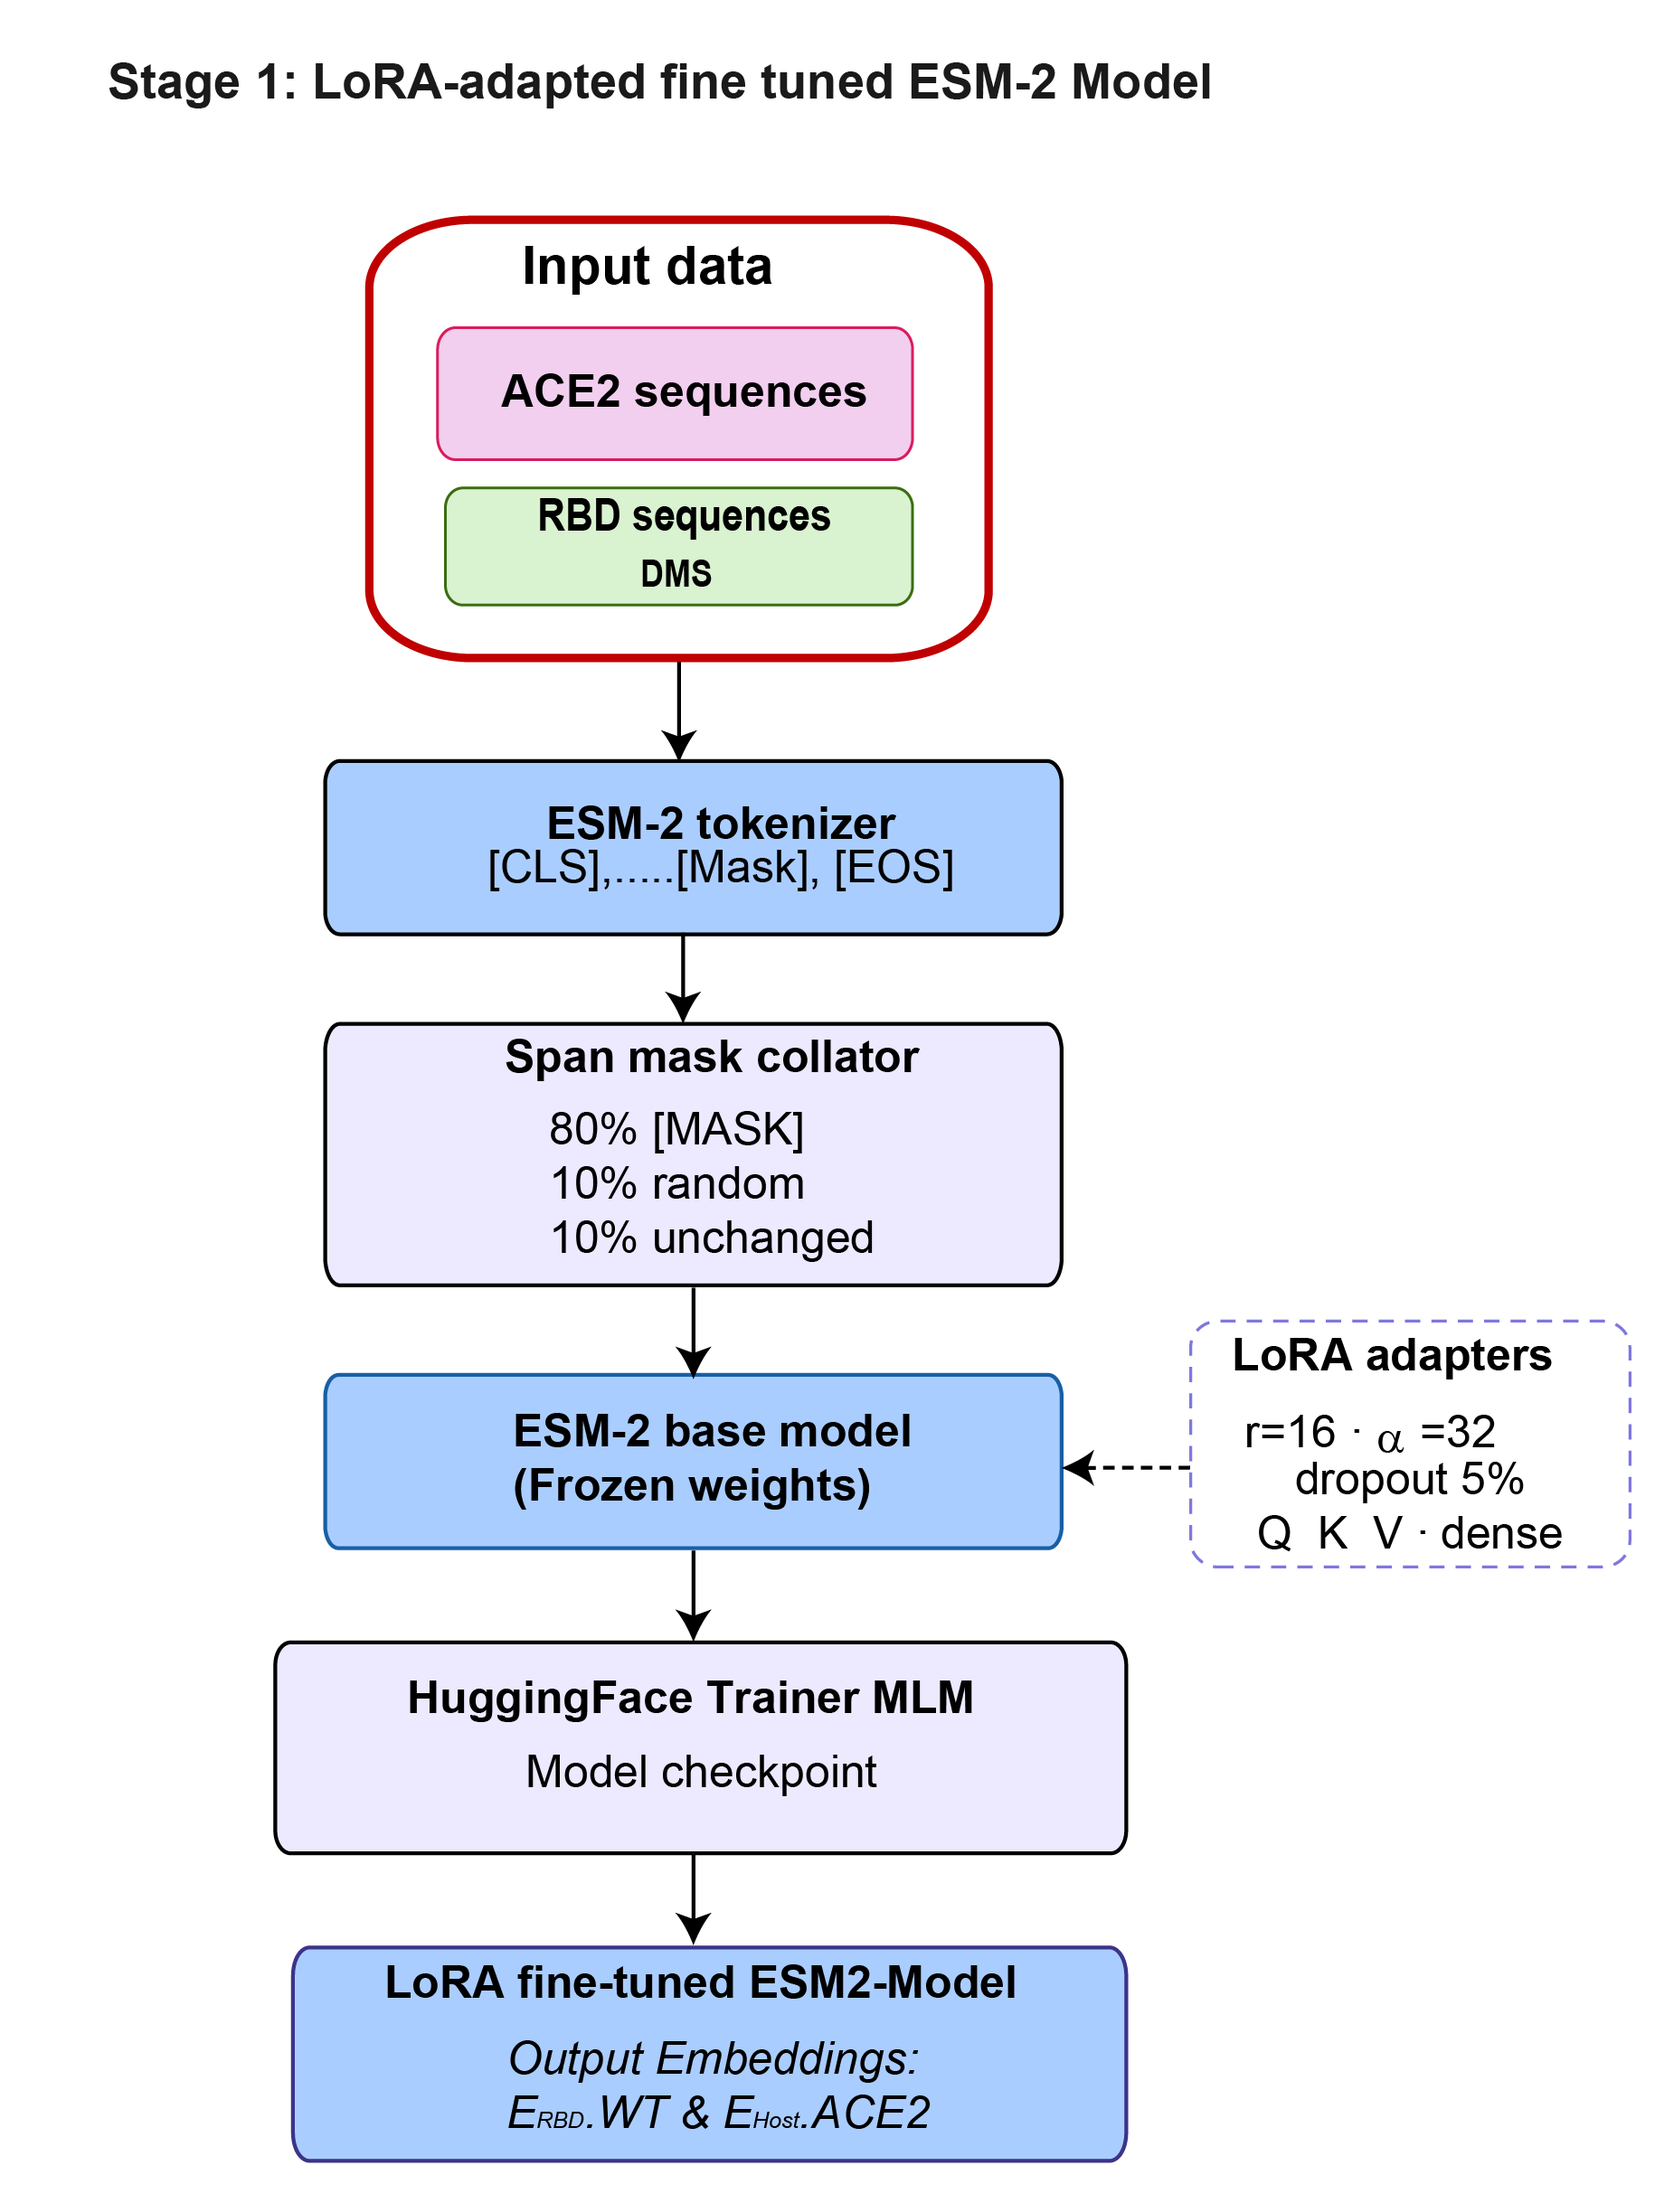
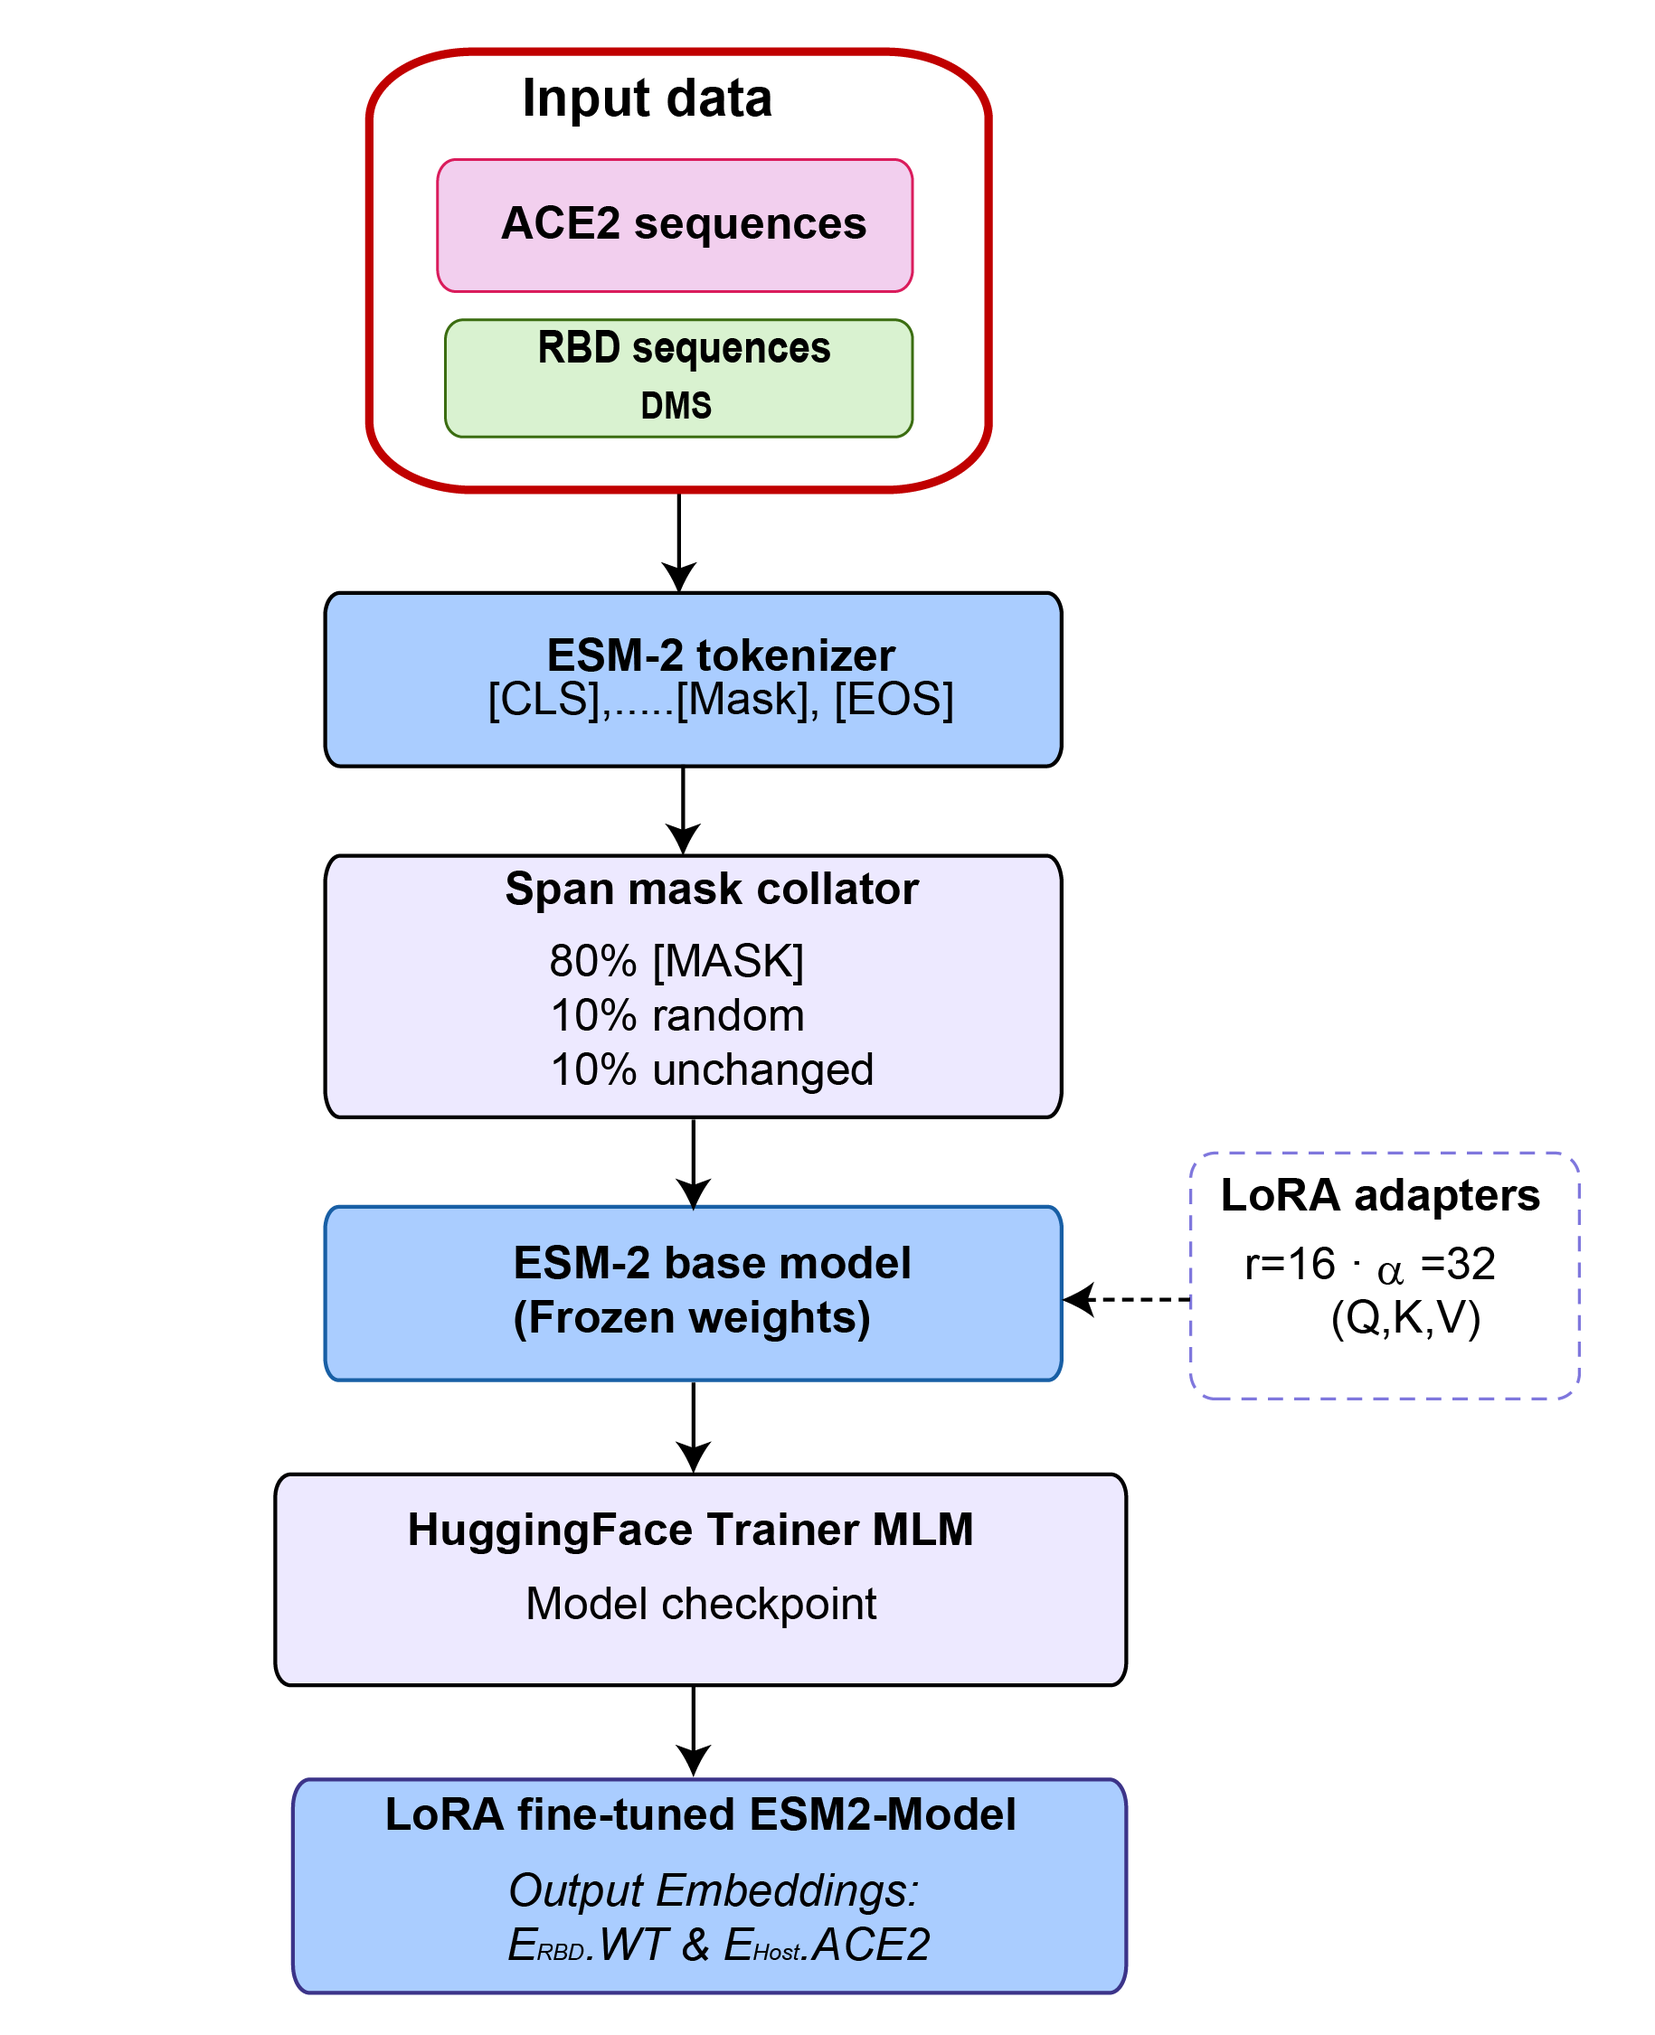
updated readme and stage1 image final

diff --git a/README.md b/README.md
@@ -21,8 +21,11 @@ The model combines:
 
 ## Model Architecture pipeline
 
-![Stage 1 Architecture](./images/stage1_architecture.png)
-![Stage2 Architecture](./images/model_architecture.png)
+**Stage 1 — Fine Tuning ESM-2 Model and LoRA masked-LM adaptation model**
+<img src="./images/stage1_architecture.png" alt="Stage 1 Architecture" width="350"/>
+
+**Stage 2 — Multi-task cross attention model architecture**
+<img src="./images/model_architecture.png" alt="Model Architecture" width="450"/>
 
 Key specifications:
 - Parameters: ~20M
